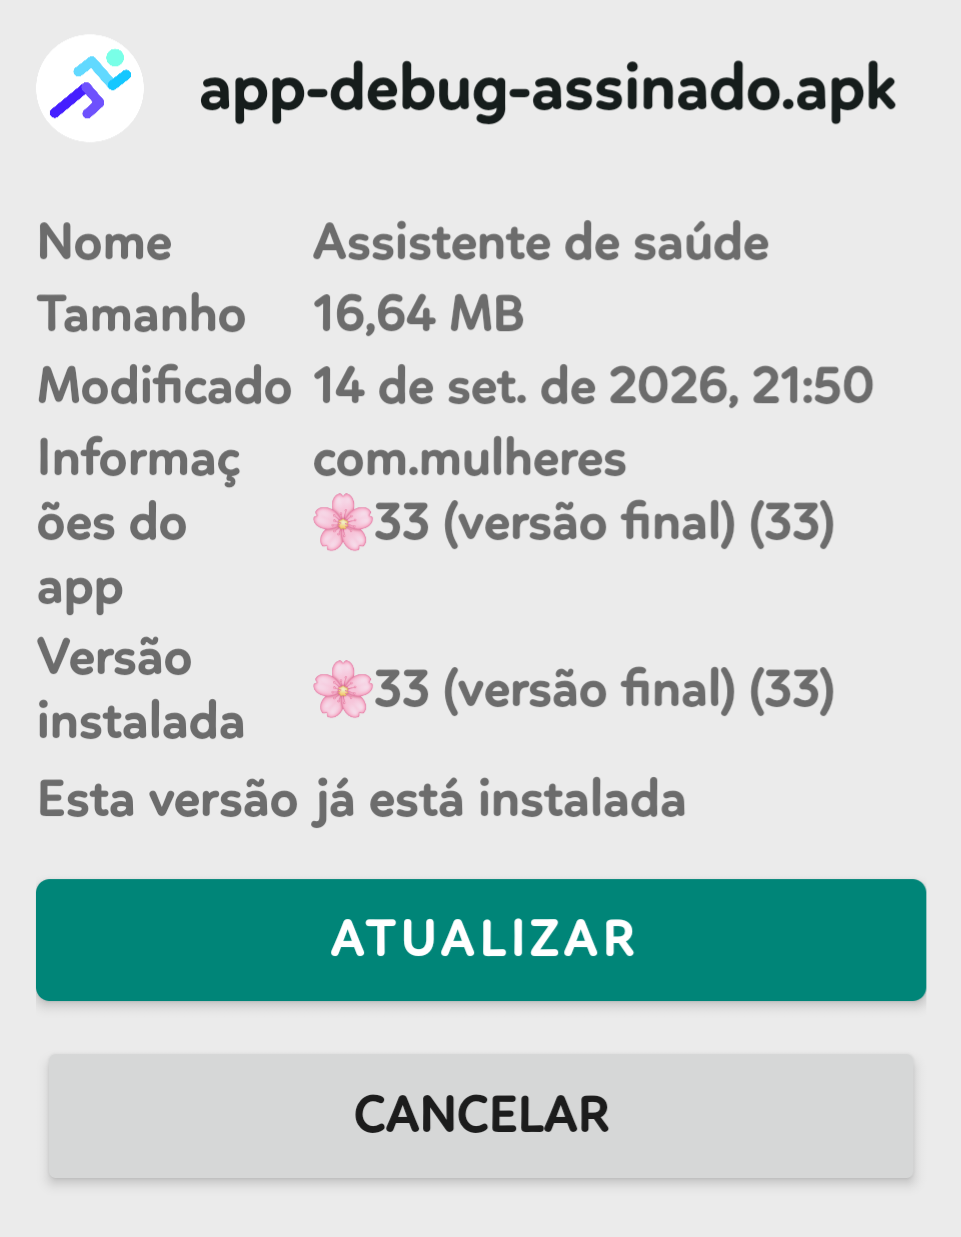
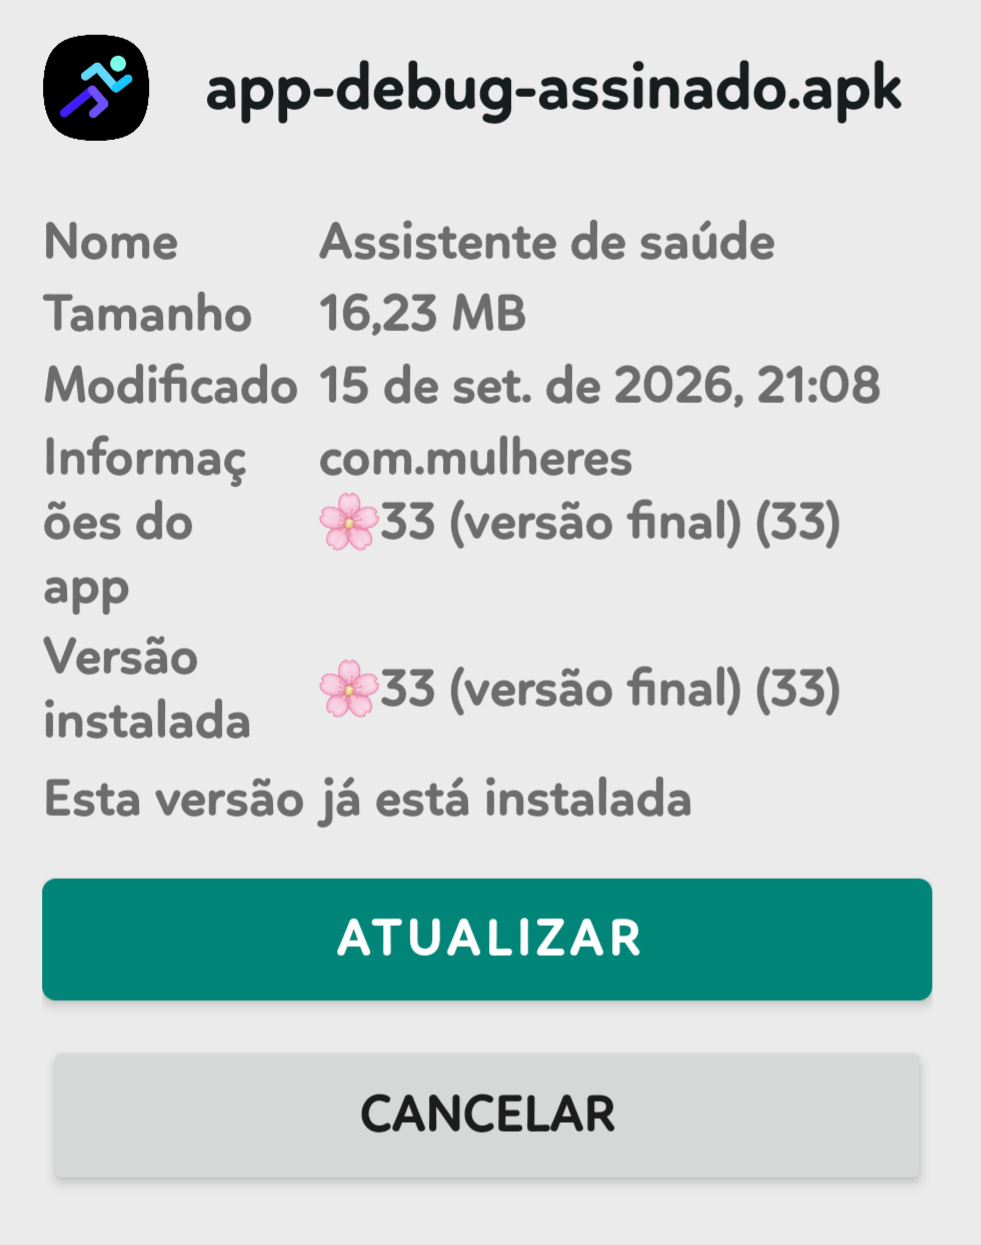
Add files via upload

diff --git a/index.html b/index.html
@@ -864,17 +864,17 @@ body.fade-out {
 
 .app-arrow {
 
-    position: relative;
+        width: 30px;
+    height: 30px;
 
-    z-index: 2;
+    flex: 0 0 30px;
 
-    margin-left: auto;
+    display: flex;
 
-    color: #555b69;
+    align-items: center;
+    justify-content: center;
 
-    font-size: 24px;
-
-    line-height: 1;
+    color: #64646d;
 
     transition:
         transform .18s ease,
@@ -1567,7 +1567,210 @@ gap: 20px;
 }
 
 
+/* =========================================================
+   BOTÃO — CÓDIGO-FONTE
+========================================================= */
 
+.repo-button {
+
+    width: 100%;
+    min-height: 68px;
+
+    display: flex;
+    align-items: center;
+
+    gap: 15px;
+
+    padding:
+        13px
+        17px;
+
+    margin-top: 10px;
+
+    border:
+        1px solid
+        rgba(255,255,255,.075);
+
+    border-radius: 22px;
+
+    background:
+        linear-gradient(
+            145deg,
+            #15161c,
+            #0d0e13
+        );
+
+    color: #fff;
+
+    text-decoration: none;
+
+    box-shadow:
+        0 10px 25px
+        rgba(0,0,0,.25);
+
+    transition:
+        transform .18s
+        cubic-bezier(.22,1,.36,1),
+        border-color .2s ease,
+        background .2s ease,
+        box-shadow .2s ease;
+
+    -webkit-tap-highlight-color: transparent;
+
+}
+
+
+.repo-button:hover {
+
+    transform:
+        translateY(-2px);
+
+    border-color:
+        rgba(255,255,255,.14);
+
+    background:
+        linear-gradient(
+            145deg,
+            #1a1b22,
+            #101117
+        );
+
+    box-shadow:
+        0 15px 34px
+        rgba(0,0,0,.32);
+
+}
+
+
+.repo-button:active {
+
+    transform:
+        scale(.975);
+
+    border-color:
+        rgba(255,63,159,.35);
+
+}
+
+
+.repo-icon {
+
+    width: 44px;
+    height: 44px;
+
+    flex: 0 0 44px;
+
+    display: flex;
+    align-items: center;
+    justify-content: center;
+
+    border-radius: 14px;
+
+    background:
+        rgba(255,255,255,.06);
+
+    color: #ffffff;
+
+}
+
+
+.repo-icon svg {
+
+    width: 22px;
+    height: 22px;
+
+}
+
+
+.repo-content {
+
+    min-width: 0;
+
+    flex: 1;
+
+    display: flex;
+
+    flex-direction: column;
+
+    gap: 3px;
+
+}
+
+
+.repo-title {
+
+    color: #ffffff;
+
+    font-size: 14px;
+
+    font-weight: 800;
+
+    line-height: 1.25;
+
+}
+
+
+.repo-description {
+
+    color: #626877;
+
+    font-size: 11px;
+
+    font-weight: 500;
+
+    line-height: 1.3;
+
+}
+
+
+.repo-arrow {
+
+    width: 30px;
+    height: 30px;
+
+    flex: 0 0 30px;
+
+    display: flex;
+
+    align-items: center;
+    justify-content: center;
+
+    color: #64646d;
+
+    transition:
+        transform .18s ease,
+        color .18s ease;
+
+}
+
+
+.repo-arrow svg {
+
+    width: 18px;
+    height: 18px;
+
+}
+
+
+.repo-button:hover .repo-arrow {
+
+    transform:
+        translateX(3px);
+
+    color: #858a98;
+
+}
+
+
+.repo-button:focus-visible {
+
+    outline:
+        2px solid
+        rgba(255,63,159,.8);
+
+    outline-offset: 3px;
+
+}
 
 
 </style>
@@ -1722,6 +1925,55 @@ gap: 20px;
 <!-- =====================================================
      APLICATIVOS
 ====================================================== -->
+
+<section class="section">
+
+    <div class="section-label">
+        Repositórios
+    </div>
+    
+    <a
+    class="repo-button"
+    href="https://github.com/mulher-amparada/mulher-amparada-app"
+    target="_blank"
+    rel="noopener noreferrer"
+    aria-label="Ver o código do Mulher Amparada no GitHub"
+>
+
+    <span class="repo-icon">
+        <svg
+            viewBox="0 0 24 24"
+            fill="currentColor"
+            aria-hidden="true"
+        >
+            <path d="M12 .5C5.65.5.5 5.65.5 12c0 5.08 3.29 9.39 7.86 10.91.58.11.79-.25.79-.56v-2.17c-3.2.69-3.87-1.54-3.87-1.54-.53-1.33-1.28-1.68-1.28-1.68-1.05-.72.08-.71.08-.71 1.16.08 1.77 1.19 1.77 1.19 1.03 1.77 2.7 1.26 3.36.96.1-.75.4-1.26.73-1.55-2.56-.29-5.25-1.28-5.25-5.69 0-1.26.45-2.29 1.19-3.1-.12-.29-.52-1.47.11-3.06 0 0 .97-.31 3.17 1.18A11 11 0 0 1 12 5.11c.98 0 1.96.13 2.88.38 2.2-1.49 3.17-1.18 3.17-1.18.63 1.59.23 2.77.11 3.06.74.81 1.19 1.84 1.19 3.1 0 4.42-2.69 5.4-5.26 5.69.41.35.78 1.04.78 2.1v3.11c0 .31.21.67.8.56A11.51 11.51 0 0 0 23.5 12C23.5 5.65 18.35.5 12 .5Z"/>
+        </svg>
+    </span>
+
+    <span class="repo-content">
+        <span class="repo-title">
+            Código-fonte
+        </span>
+
+        <span class="repo-description">
+            Veja o projeto no GitHub
+        </span>
+    </span>
+
+    <span class="repo-arrow" aria-hidden="true">
+        <svg
+            viewBox="0 0 24 24"
+            fill="none"
+            stroke="currentColor"
+            stroke-width="2"
+        >
+            <path d="M9 18l6-6-6-6"></path>
+        </svg>
+    </span>
+
+</a>
+
+</section>
 
 <section class="section">
 
